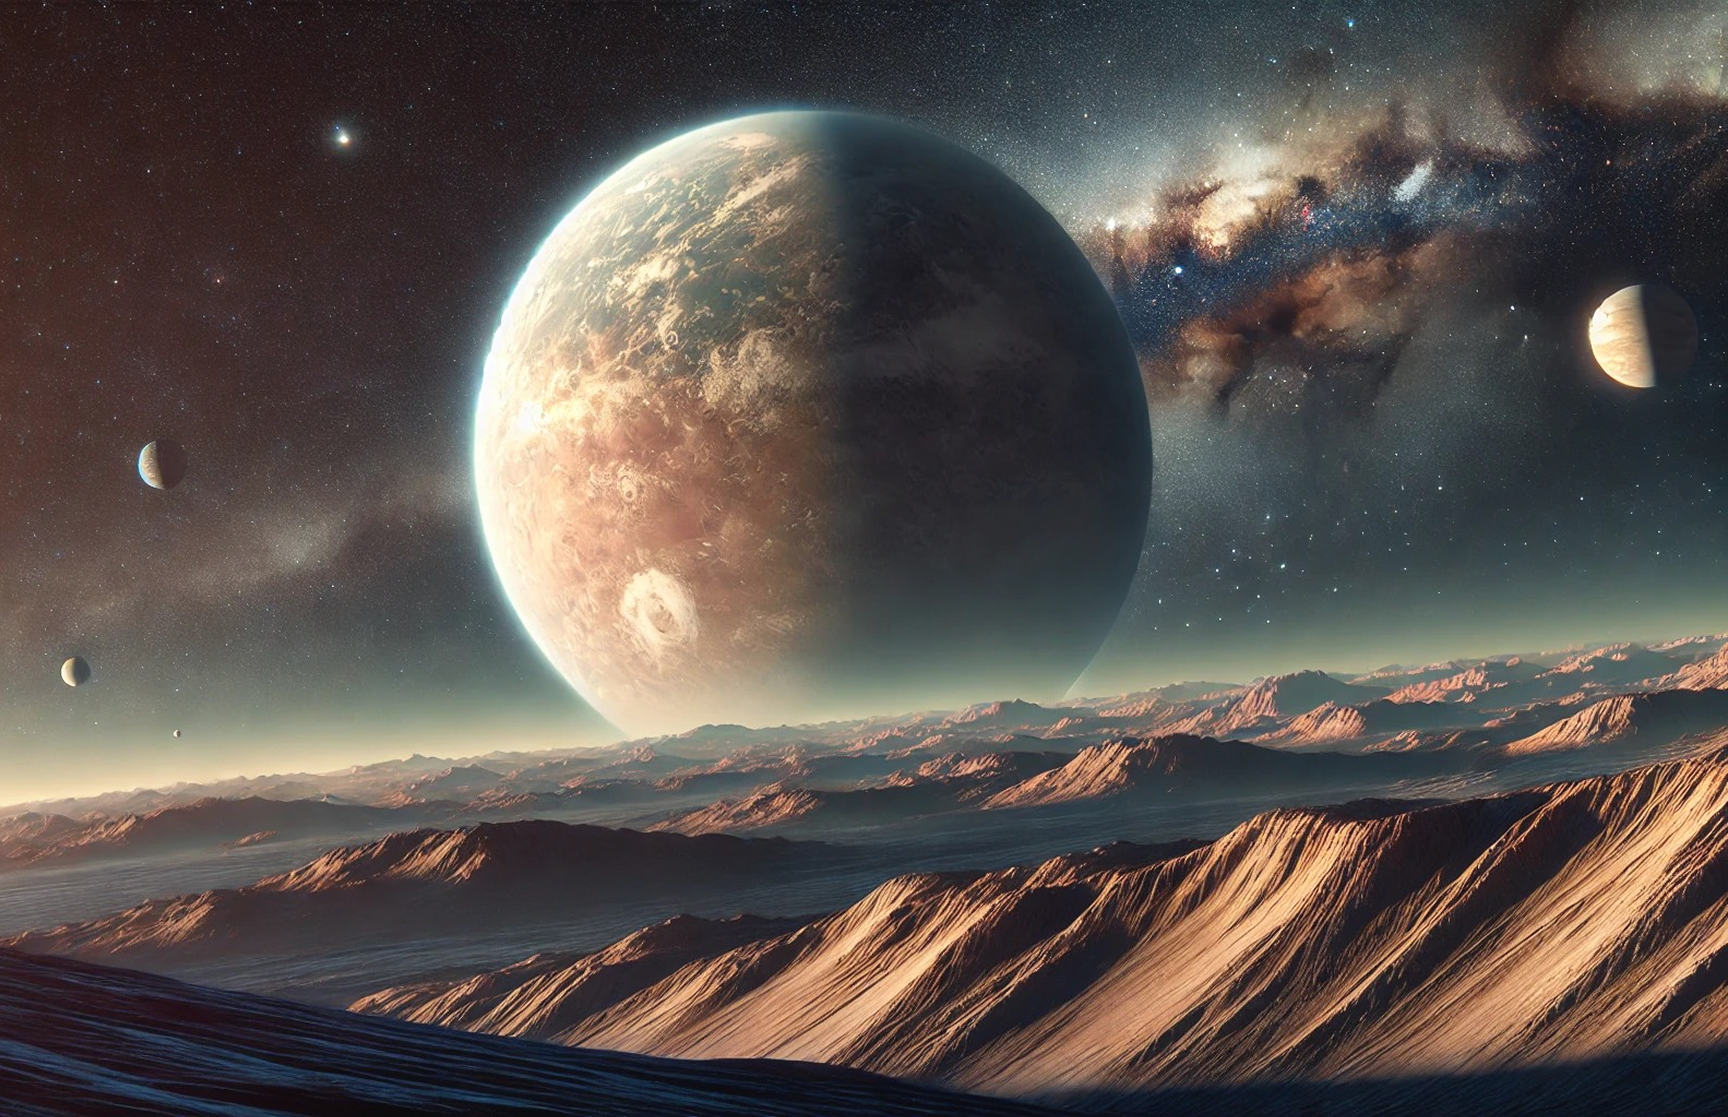
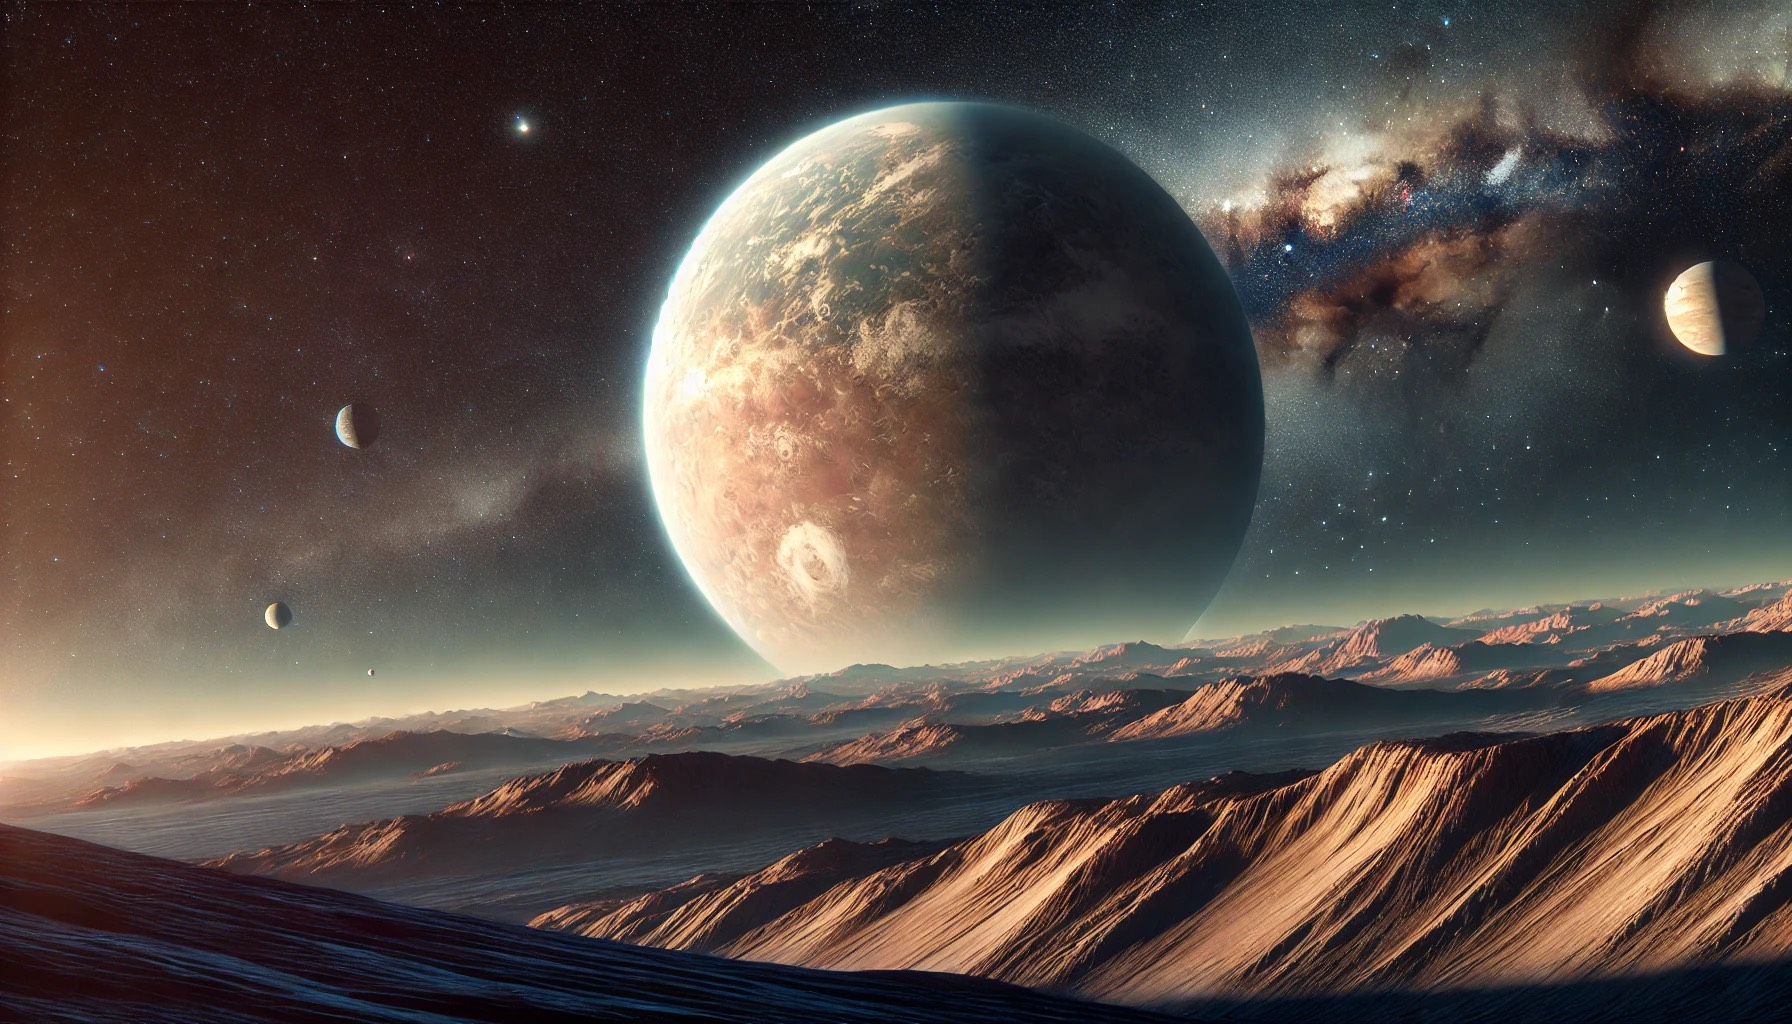
Changed background image - now in globals.css #38

diff --git a/app/register/page.tsx b/app/register/page.tsx
@@ -50,8 +50,9 @@ const Register: React.FC = () => {
       router.push("/dashboard");
       
     };
-  
+
     return (
+      
       <div
         className="register-container"
         style={{
@@ -64,18 +65,6 @@ const Register: React.FC = () => {
           alignItems: "center",
         }}
       >
-        <img // Background image
-          style={{
-            position: "absolute",
-            top: 0,
-            left: 0,
-            width: "100%",
-            height: "100%",
-            objectFit: "cover",
-            opacity: 1 // 0.96 according to figma
-            }}
-          src="/background1.png" // picture under /public/background1.png
-        />
 
         <h1 // Text Exoplanet Hunting Platform
           style={{

diff --git a/app/styles/globals.css b/app/styles/globals.css
@@ -60,3 +60,13 @@ a {
   min-height: 100vh;
   background-color: rgb(41, 44, 59);
 }
+
+.register-container { /*background image of registration page*/
+  width: 100vw;
+  height: 100vh;
+  background-image: url("/background1.png");
+  background-size: contain;
+  background-repeat: no-repeat;
+  background-position: center;
+  background-color: rgb(0, 0, 0);
+}
